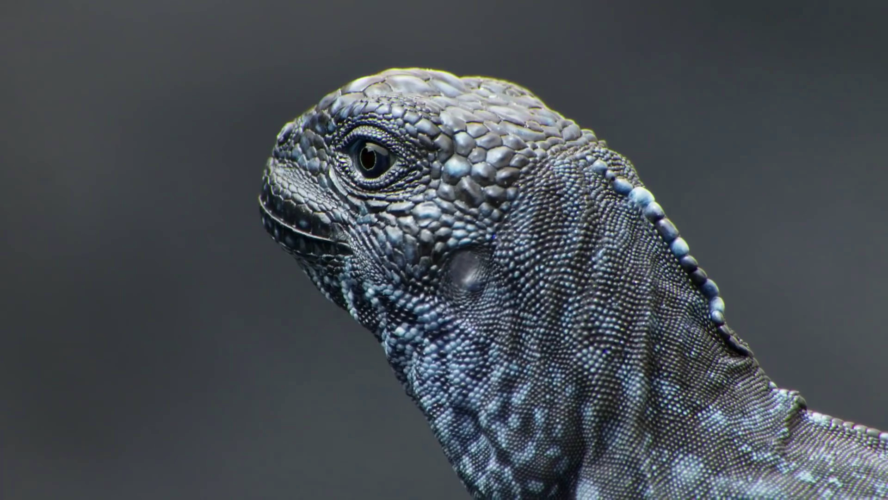
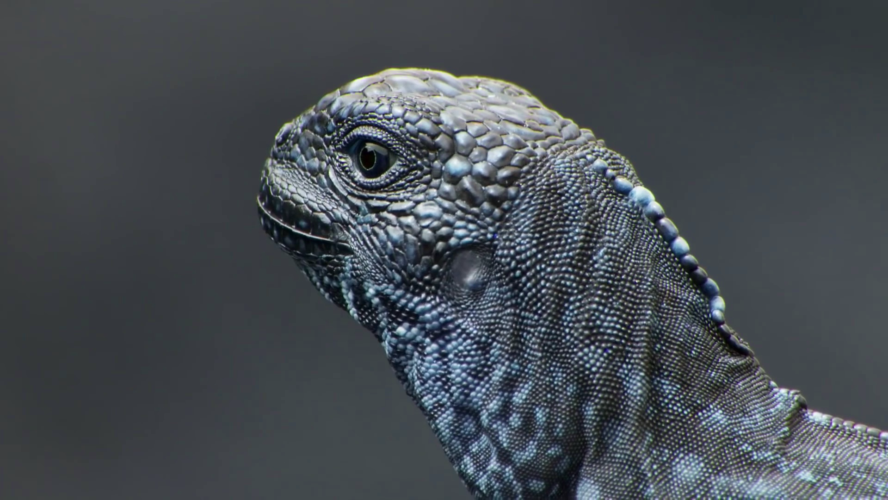
Model 3hr trained

diff --git a/.ipynb_checkpoints/infer-checkpoint.py b/.ipynb_checkpoints/infer-checkpoint.py
@@ -62,7 +62,8 @@ def weights_init(m):
     netG = nn.DataParallel(netG, list(range(ngpu)))"""
 
 #netG.apply(weights_init)
-netG = torch.load("generator3.bin")
+netG = torch.load("nice/generator5.bin")
+netG.eval()
 
 print("running model")
 batch = next(iter(dataloader))
@@ -79,7 +80,7 @@ print(batch["prev"].size())
 #plt.show()
 #img = np.transpose(utils.make_grid(batch["prev"].to(device)[:batch_size], padding=2, normalize=True).cpu().detach(),(1,2,0)).numpy()
 #plt.imsave('prev.jpg', img)
-utils.save_image(batch["prev"][0], 'cool/img1.png', normalize=True)
+utils.save_image(batch["prev"][0], 'cool/img1.png', normalize=True, padding=0)
 
 #plt.axis("off")
 #plt.title("Next Training Images")
@@ -88,7 +89,7 @@ print(batch["next"].size())
 #plt.show()
 #img = np.transpose(utils.make_grid(batch["next"].to(device)[:batch_size], padding=2, normalize=True).cpu().detach(),(1,2,0)).numpy()
 #plt.imsave('next.jpg', img)
-utils.save_image(batch["next"][0], 'cool/img3.png', normalize=True)
+utils.save_image(batch["next"][0], 'cool/img3.png', normalize=True, padding=0)
 
 #plt.axis("off")
 #plt.title("Infered Images")
@@ -97,6 +98,6 @@ print(out.size())
 #plt.show()
 #img = np.transpose(utils.make_grid(out.to(device)[:batch_size], padding=2, normalize=True).cpu().detach(),(1,2,0)).numpy()
 #plt.imsave('infered.jpg', img)
-utils.save_image(out[0], 'cool/img2.png', normalize=True)
+utils.save_image(out[0], 'cool/img2.png', normalize=True, padding=0)
 
 

diff --git a/infer.py b/infer.py
@@ -62,7 +62,8 @@ def weights_init(m):
     netG = nn.DataParallel(netG, list(range(ngpu)))"""
 
 #netG.apply(weights_init)
-netG = torch.load("generator3.bin")
+netG = torch.load("nice/generator5.bin")
+netG.eval()
 
 print("running model")
 batch = next(iter(dataloader))
@@ -79,7 +80,7 @@ print(batch["prev"].size())
 #plt.show()
 #img = np.transpose(utils.make_grid(batch["prev"].to(device)[:batch_size], padding=2, normalize=True).cpu().detach(),(1,2,0)).numpy()
 #plt.imsave('prev.jpg', img)
-utils.save_image(batch["prev"][0], 'cool/img1.png', normalize=True)
+utils.save_image(batch["prev"][0], 'cool/img1.png', normalize=True, padding=0)
 
 #plt.axis("off")
 #plt.title("Next Training Images")
@@ -88,7 +89,7 @@ print(batch["next"].size())
 #plt.show()
 #img = np.transpose(utils.make_grid(batch["next"].to(device)[:batch_size], padding=2, normalize=True).cpu().detach(),(1,2,0)).numpy()
 #plt.imsave('next.jpg', img)
-utils.save_image(batch["next"][0], 'cool/img3.png', normalize=True)
+utils.save_image(batch["next"][0], 'cool/img3.png', normalize=True, padding=0)
 
 #plt.axis("off")
 #plt.title("Infered Images")
@@ -97,6 +98,6 @@ print(out.size())
 #plt.show()
 #img = np.transpose(utils.make_grid(out.to(device)[:batch_size], padding=2, normalize=True).cpu().detach(),(1,2,0)).numpy()
 #plt.imsave('infered.jpg', img)
-utils.save_image(out[0], 'cool/img2.png', normalize=True)
+utils.save_image(out[0], 'cool/img2.png', normalize=True, padding=0)
 
 

diff --git a/.ipynb_checkpoints/train-checkpoint.py b/.ipynb_checkpoints/train-checkpoint.py
@@ -26,7 +26,7 @@ nc = 3
 nz = 100
 ngf = 25
 ndf = 25
-num_epochs = 5
+num_epochs = 3
 lr = 0.0002
 beta1 = 0.5
 ngpu = torch.cuda.device_count()
@@ -155,10 +155,14 @@ for epoch in range(num_epochs):
         G_losses.append(errG.item())
         D_losses.append(errD.item())
         torch.cuda.empty_cache()
+    
+    torch.save(netG, "nice/generator4.bin")
+    torch.save(netD, "nice/discriminator4.bin")
+    
 print("Done training")
 
-torch.save(netG, "nice/generator4.bin")
-torch.save(netD, "nice/discriminator4.bin")
+#torch.save(netG, "nice/generator5.bin")
+#torch.save(netD, "nice/discriminator5.bin")
 
 # store network stats for testing
 G = open("nice/G_losses4.pickle","wb")

diff --git a/train.py b/train.py
@@ -26,7 +26,7 @@ nc = 3
 nz = 100
 ngf = 25
 ndf = 25
-num_epochs = 5
+num_epochs = 3
 lr = 0.0002
 beta1 = 0.5
 ngpu = torch.cuda.device_count()
@@ -155,10 +155,14 @@ for epoch in range(num_epochs):
         G_losses.append(errG.item())
         D_losses.append(errD.item())
         torch.cuda.empty_cache()
+    
+    torch.save(netG, "nice/generator4.bin")
+    torch.save(netD, "nice/discriminator4.bin")
+    
 print("Done training")
 
-torch.save(netG, "nice/generator4.bin")
-torch.save(netD, "nice/discriminator4.bin")
+#torch.save(netG, "nice/generator5.bin")
+#torch.save(netD, "nice/discriminator5.bin")
 
 # store network stats for testing
 G = open("nice/G_losses4.pickle","wb")
